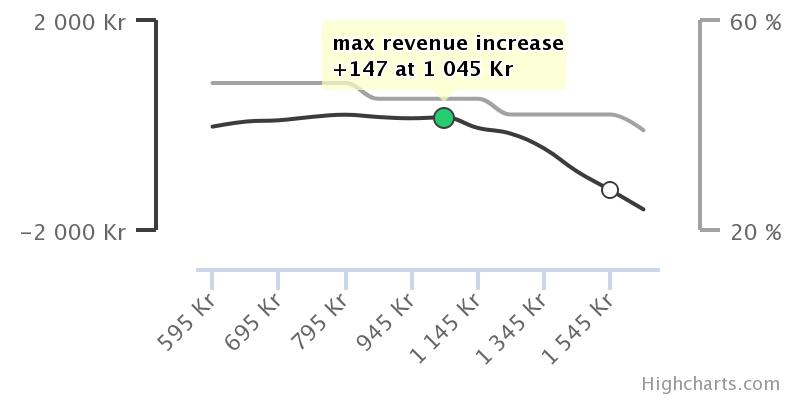
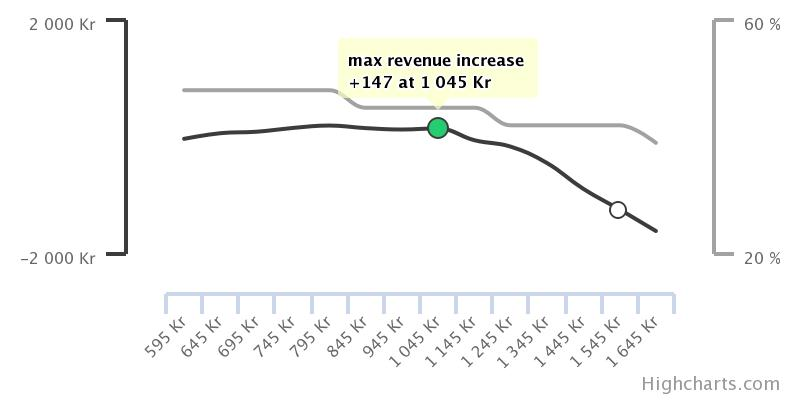
adding new image

diff --git a/.idea/detailed_graph.html b/.idea/detailed_graph.html
@@ -85,8 +85,14 @@
                 tickAmount: 3,
                 categories: [595, 645, 695, 745, 795, 845, 945, 1045, 1145, 1245, 1345, 1445, 1545,1645],
 
+
                 labels: {
-                    format: '{value:,.0f} Kr'
+                    format: '{value:,.0f} Kr',
+
+                    style:{
+
+                        fontSize: '8px'
+                    }
                 },
 
                 title: {
@@ -114,7 +120,11 @@
 
                     },
                     labels: {
-                        format: '{value:,.0f} Kr'
+                        format: '{value:,.0f} Kr',
+                        style:{
+
+                            fontSize: '8px'
+                        }
                     }
 
 
@@ -133,7 +143,11 @@
                         text: null
                     },
                     labels: {
-                        format: '{value:,.0f} %'
+                        format: '{value:,.0f} %',
+                        style:{
+
+                            fontSize: '8px'
+                        }
                     },
                     opposite: true
                 }
@@ -153,7 +167,8 @@
                     backgroundColor: 'rgba(0, 0, 0, 0.75)',
                     style: {
                         color: '#FFFFFF',
-                        textOutline: 'none'
+                        textOutline: 'none',
+                        fontSize: '8px'
                     }
                 }
             },
@@ -188,12 +203,12 @@
                             y: -15,
                             style:{
                                 color:'#fffff',
-                                fontSize:'10px'
+                                fontSize:'8px'
                             },
 
                         },
                         marker: { enabled:true, fillColor: '#25CC70', lineColor:'#3C3C3C',lineWidth:1, radius: 5 }
-                    }, -55, -165, -445, -886, -1237, -1607]
+                    }, -55, -165, -445, -886, { y:-1237, marker: { enabled:true, fillColor: '#FFFFFF', lineColor:'#3C3C3C',lineWidth:1, radius: 4 }}, -1607]
 
                 },
                 {

diff --git a/graph.html b/graph.html
@@ -1,4 +1,3 @@
-
 <!DOCTYPE html>
 <html lang="en">
 <head>
@@ -86,8 +85,14 @@
                 tickAmount: 3,
                 categories: [595, 645, 695, 745, 795, 845, 945, 1045, 1145, 1245, 1345, 1445, 1545,1645],
 
+
                 labels: {
-                    format: '{value:,.0f} Kr'
+                    format: '{value:,.0f} Kr',
+
+                    style:{
+
+                        fontSize: '8px'
+                    }
                 },
 
                 title: {
@@ -115,7 +120,11 @@
 
                     },
                     labels: {
-                        format: '{value:,.0f} Kr'
+                        format: '{value:,.0f} Kr',
+                        style:{
+
+                            fontSize: '8px'
+                        }
                     }
 
 
@@ -134,7 +143,11 @@
                         text: null
                     },
                     labels: {
-                        format: '{value:,.0f} %'
+                        format: '{value:,.0f} %',
+                        style:{
+
+                            fontSize: '8px'
+                        }
                     },
                     opposite: true
                 }
@@ -154,7 +167,8 @@
                     backgroundColor: 'rgba(0, 0, 0, 0.75)',
                     style: {
                         color: '#FFFFFF',
-                        textOutline: 'none'
+                        textOutline: 'none',
+                        fontSize: '8px'
                     }
                 }
             },
@@ -189,7 +203,7 @@
                             y: -15,
                             style:{
                                 color:'#fffff',
-                                fontSize:'10px'
+                                fontSize:'8px'
                             },
 
                         },
